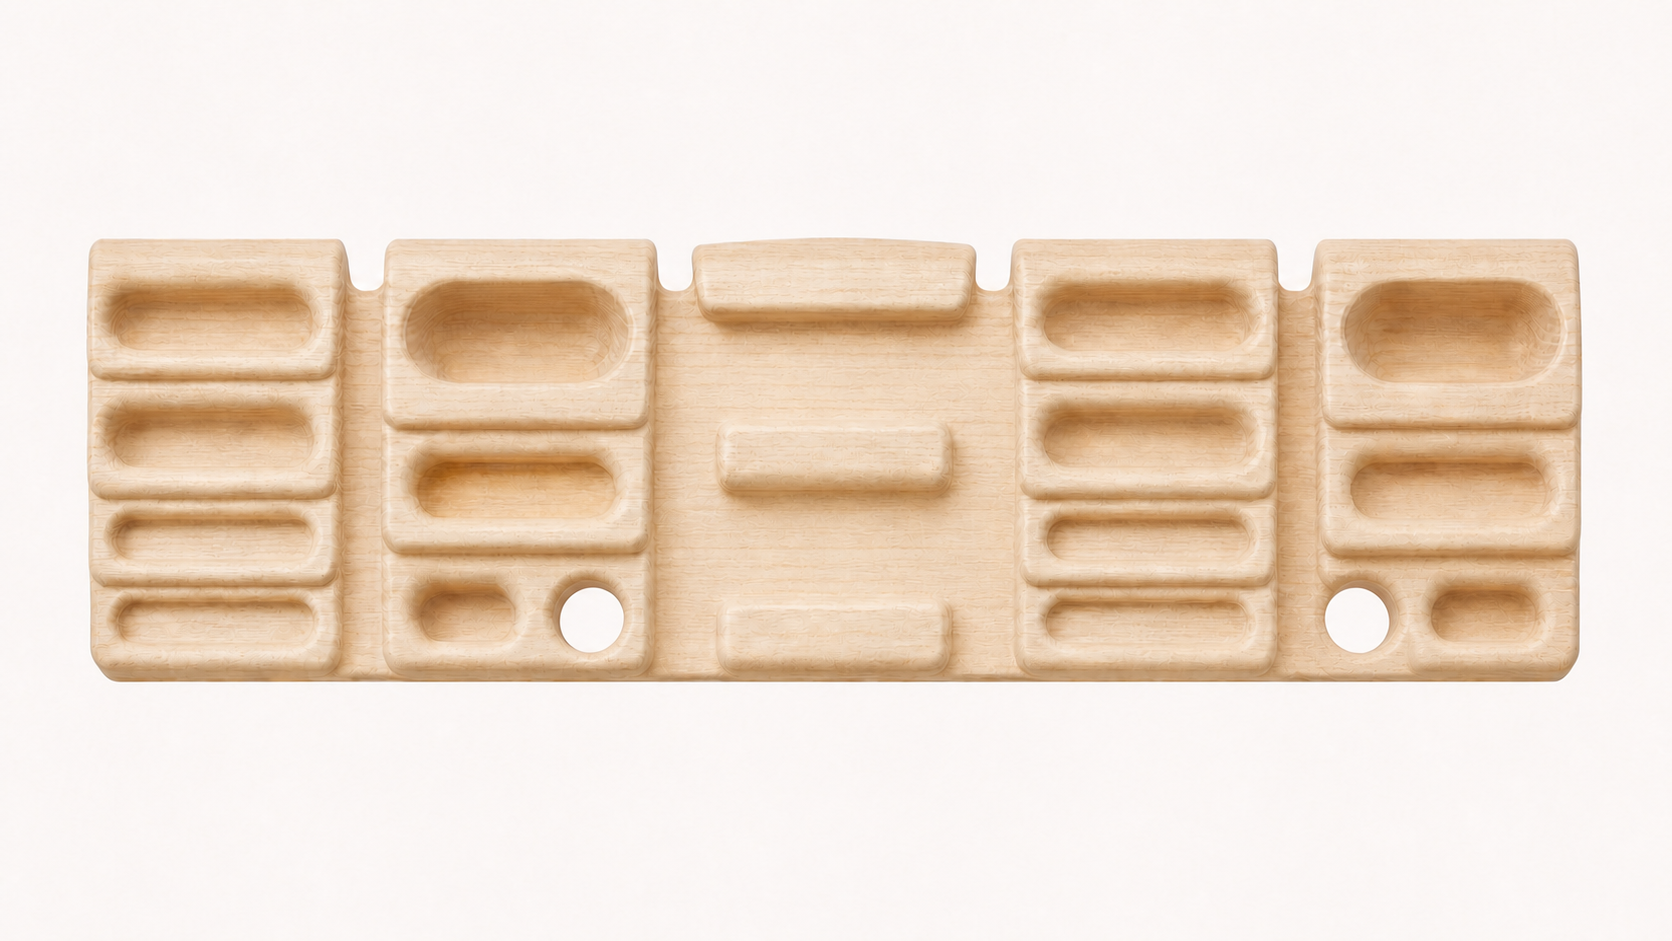
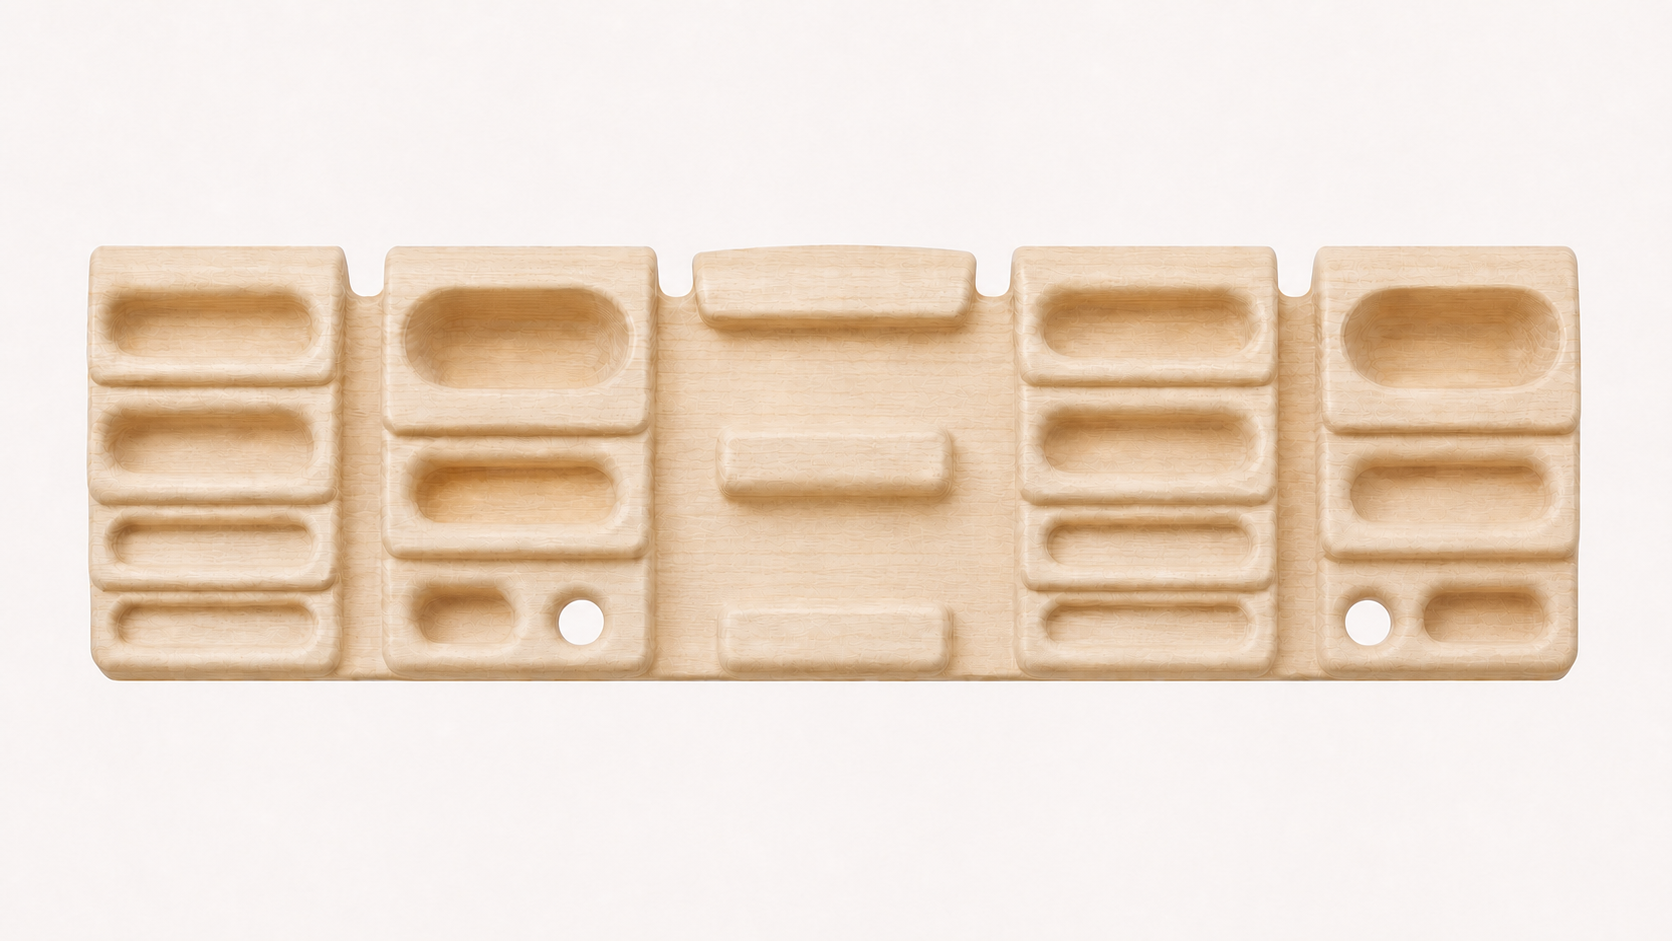
Refine Moon Armstrong mono holds

diff --git a/Tools/HangboardPipeline/tests/test_moon_armstrong_board_package.py b/Tools/HangboardPipeline/tests/test_moon_armstrong_board_package.py
@@ -139,14 +139,13 @@ def test_moon_armstrong_audited_inventory_offset_layout_and_contact_regions() ->
         jug = holds[f"incut-jug-{side}"].geometry[0].frame
         sloper = holds[f"sloper-35-{side}"].geometry[0].frame
         assert jug != sloper
-        assert _intersection_area(jug, sloper) < 0.2 * min(
-            jug.width * jug.height,
-            sloper.width * sloper.height,
-        )
+        assert _intersection_area(jug, sloper) == 0
 
         mono = holds[f"pocket-22-one-{side}"].geometry[0].frame
         two = holds[f"pocket-22-two-{side}"].geometry[0].frame
         assert _intersection_area(mono, two) == 0
+        assert 0.025 <= mono.width <= 0.029
+        assert 0.045 <= mono.height <= 0.051
 
     assert holds["sloper-35-left"].grip_type == "sloper"
     assert holds["sloper-35-right"].grip_type == "sloper"
@@ -186,7 +185,7 @@ def test_moon_armstrong_primary_contains_both_separate_through_monos() -> None:
     # and its surrounding rim remains visibly wooden rather than becoming a
     # broad background cut-out.
     backdrop = image.getpixel((0, 0))
-    for normalized_x, normalized_y in ((0.355, 0.657), (0.811, 0.657)):
+    for normalized_x, normalized_y in ((0.3475, 0.661), (0.8185, 0.661)):
         center_x = round(normalized_x * width)
         center_y = round(normalized_y * height)
         center = image.getpixel((center_x, center_y))
